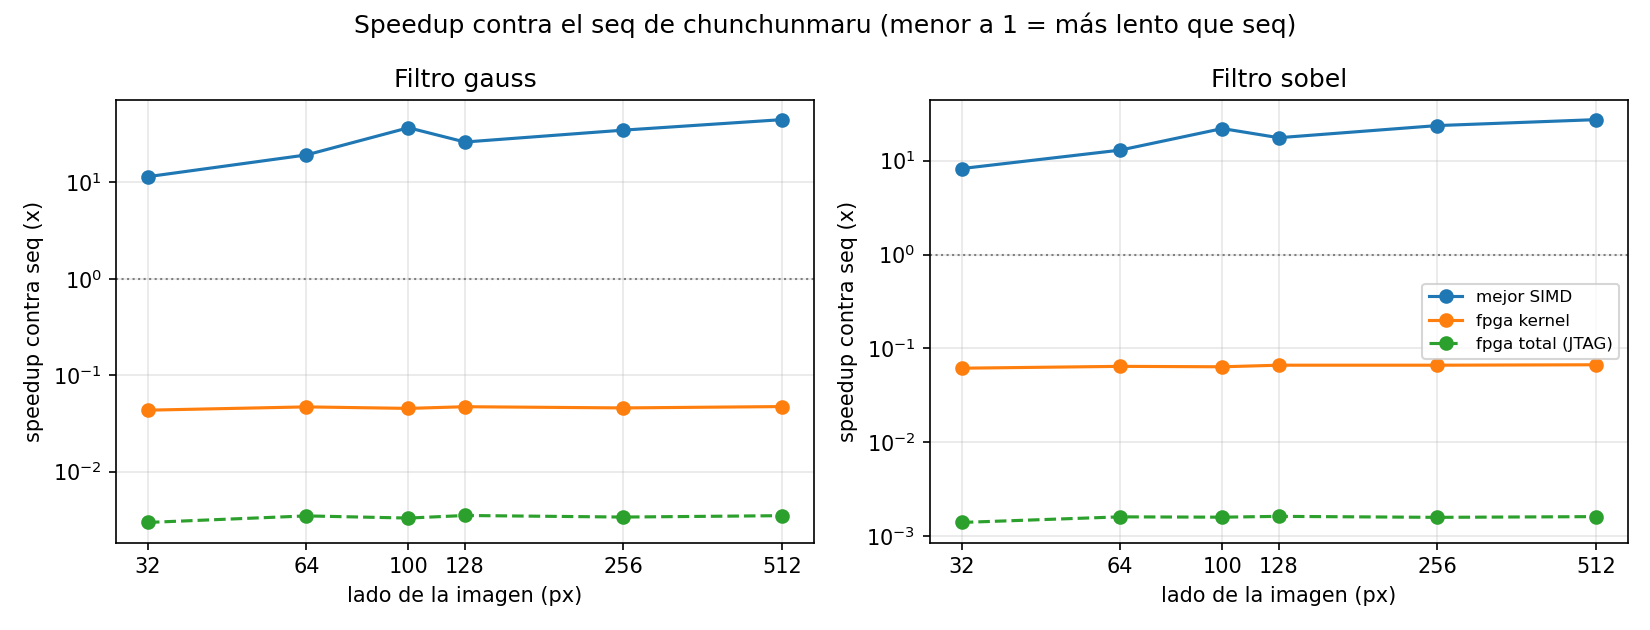
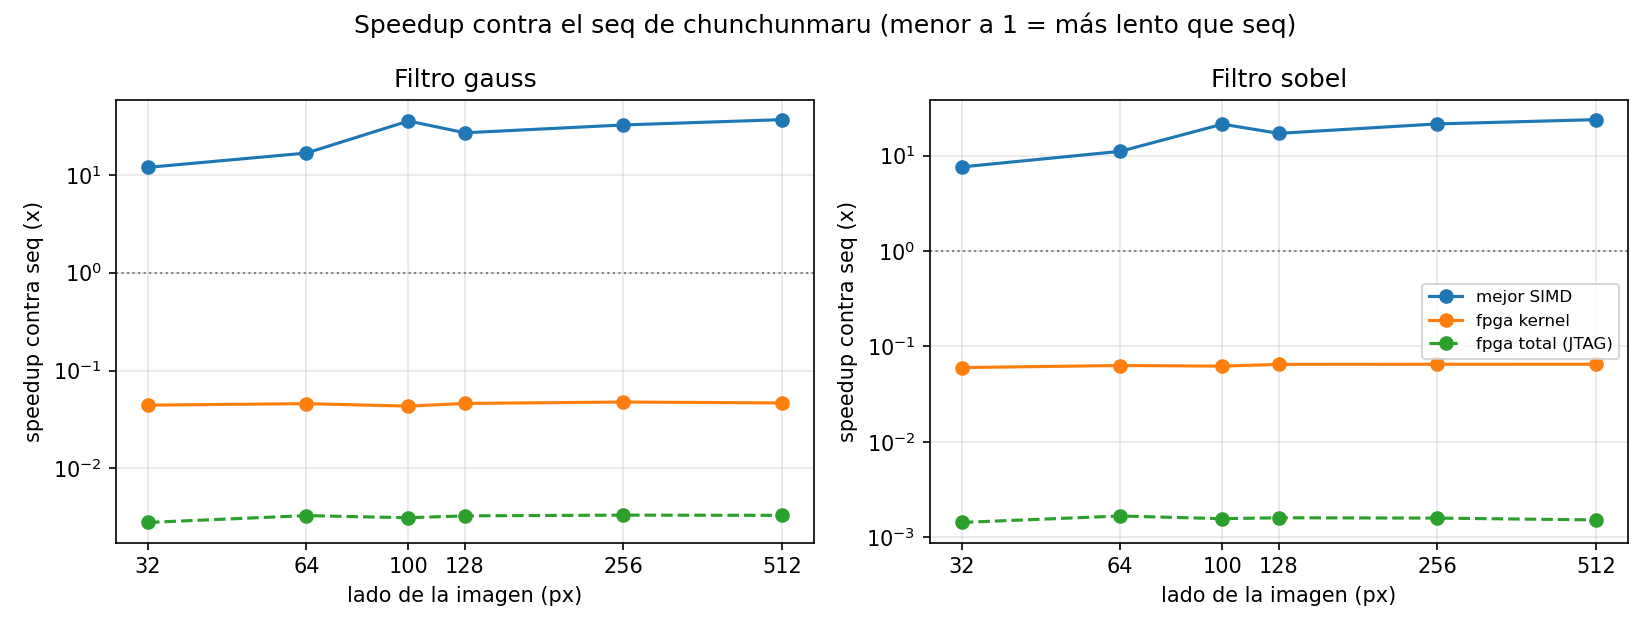
chore: regenerate the platform comparison from the new data

diff --git a/proyecto_2/results/figuras/comparativa_tabla.md b/proyecto_2/results/figuras/comparativa_tabla.md
@@ -8,27 +8,27 @@ Mismas imágenes y mismos filtros. La CPU se midió en la máquina conectada a l
 
 | | 32² | 64² | 100² | 128² | 256² | 512² |
 |---|---|---|---|---|---|---|
-| seq | 0.0264 | 0.113 | 0.275 | 0.450 | 1.758 | 7.210 |
-| mejor SIMD | 0.0023 (simd_sep) | 0.0058 (simd_sep) | 0.0074 (simd_sep512) | 0.0172 (simd_sep512) | 0.0505 (simd_sep512) | 0.161 (simd_sep512) |
+| seq | 0.0269 | 0.110 | 0.263 | 0.440 | 1.831 | 7.108 |
+| mejor SIMD | 0.0023 (simd_sep) | 0.0066 (simd_sep512) | 0.0074 (simd_sep512) | 0.0164 (simd_sep512) | 0.0566 (simd_sep512) | 0.194 (simd_sep512) |
 | fpga kernel | 0.609 | 2.404 | 6.075 | 9.558 | 38.420 | 152.6 |
-| fpga total (con JTAG) | 8.890 | 32.489 | 83.406 | 128.4 | 520.8 | 2066.1 |
-| fpga kernel / total | 6.8 % | 7.4 % | 7.3 % | 7.4 % | 7.4 % | 7.4 % |
-| speedup del kernel contra seq | 0.043x | 0.047x | 0.045x | 0.047x | 0.046x | 0.047x |
-| speedup del total contra seq | 0.003x | 0.003x | 0.003x | 0.004x | 0.003x | 0.003x |
-| speedup del mejor SIMD contra seq | 11.5x | 19.3x | 36.9x | 26.2x | 34.8x | 44.8x |
+| fpga total (con JTAG) | 9.620 | 33.498 | 83.976 | 134.6 | 550.5 | 2147.9 |
+| fpga kernel / total | 6.3 % | 7.2 % | 7.2 % | 7.1 % | 7.0 % | 7.1 % |
+| speedup del kernel contra seq | 0.044x | 0.046x | 0.043x | 0.046x | 0.048x | 0.047x |
+| speedup del total contra seq | 0.003x | 0.003x | 0.003x | 0.003x | 0.003x | 0.003x |
+| speedup del mejor SIMD contra seq | 11.9x | 16.7x | 35.5x | 26.9x | 32.3x | 36.6x |
 
 ### sobel: mediana en ms
 
 | | 32² | 64² | 100² | 128² | 256² | 512² |
 |---|---|---|---|---|---|---|
-| seq | 0.0122 | 0.0493 | 0.122 | 0.199 | 0.795 | 3.179 |
-| mejor SIMD | 0.0015 (simd_sep) | 0.0038 (simd_sep) | 0.0056 (simd_sep512) | 0.0113 (simd_sep512) | 0.0336 (simd_sep512) | 0.116 (simd_sep512) |
+| seq | 0.0119 | 0.0482 | 0.119 | 0.194 | 0.779 | 3.085 |
+| mejor SIMD | 0.0016 (simd_sep) | 0.0043 (simd_sep) | 0.0056 (simd_sep512) | 0.0114 (simd_sep512) | 0.0363 (simd_sep512) | 0.129 (simd_sep512) |
 | fpga kernel | 0.199 | 0.765 | 1.915 | 3.004 | 12.000 | 47.503 |
-| fpga total (con JTAG) | 8.741 | 30.692 | 76.599 | 122.4 | 501.3 | 1969.3 |
-| fpga kernel / total | 2.3 % | 2.5 % | 2.5 % | 2.5 % | 2.4 % | 2.4 % |
-| speedup del kernel contra seq | 0.062x | 0.064x | 0.064x | 0.066x | 0.066x | 0.067x |
+| fpga total (con JTAG) | 8.359 | 28.934 | 76.083 | 121.9 | 492.1 | 2036.4 |
+| fpga kernel / total | 2.4 % | 2.6 % | 2.5 % | 2.5 % | 2.4 % | 2.3 % |
+| speedup del kernel contra seq | 0.060x | 0.063x | 0.062x | 0.065x | 0.065x | 0.065x |
 | speedup del total contra seq | 0.001x | 0.002x | 0.002x | 0.002x | 0.002x | 0.002x |
-| speedup del mejor SIMD contra seq | 8.24x | 13.0x | 22.0x | 17.6x | 23.6x | 27.3x |
+| speedup del mejor SIMD contra seq | 7.61x | 11.1x | 21.3x | 17.1x | 21.5x | 23.8x |
 
 ## Todas las plataformas en 512² (el tamaño común)
 
@@ -44,7 +44,7 @@ El speedup de cada fila es contra el `seq` de **su propia máquina**. Las column
 | msi-ema | mejor SIMD (simd_sep512) | 0.170 | 43.4x | 0.141 | 22.7x |
 | msi-ema | mejor CUDA con copias (cuda_tiled) | 0.172 | 42.9x | 0.170 | 18.9x |
 | msi-ema | mejor CUDA solo kernel (cuda_tiled) | 0.0246 | 298.8x | 0.0166 | 192.8x |
-| chunchunmaru (CPU de la FPGA) | seq | 7.210 | 1.00x | 3.179 | 1.00x |
-| chunchunmaru (CPU de la FPGA) | mejor SIMD (simd_sep512) | 0.161 | 44.8x | 0.116 | 27.3x |
-| FPGA fpga | kernel (ciclos / 50 MHz) | 152.6 | 0.047x | 47.503 | 0.067x |
-| FPGA fpga | total con JTAG | 2066.1 | 0.003x | 1969.3 | 0.002x |
+| chunchunmaru (CPU de la FPGA) | seq | 7.108 | 1.00x | 3.085 | 1.00x |
+| chunchunmaru (CPU de la FPGA) | mejor SIMD (simd_sep512) | 0.194 | 36.6x | 0.129 | 23.8x |
+| FPGA fpga | kernel (ciclos / 50 MHz) | 152.6 | 0.047x | 47.503 | 0.065x |
+| FPGA fpga | total con JTAG | 2147.9 | 0.003x | 2036.4 | 0.002x |
